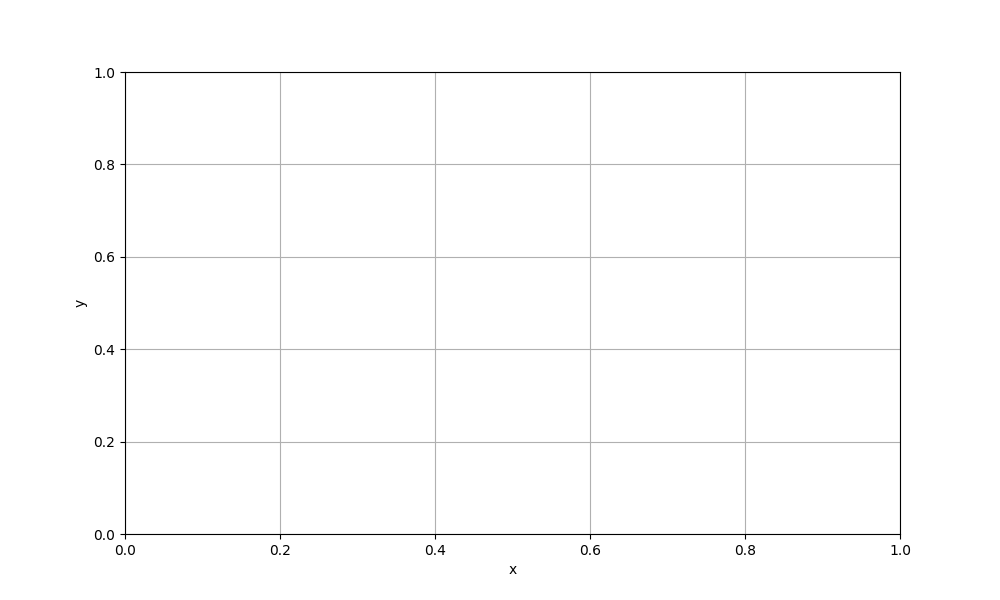
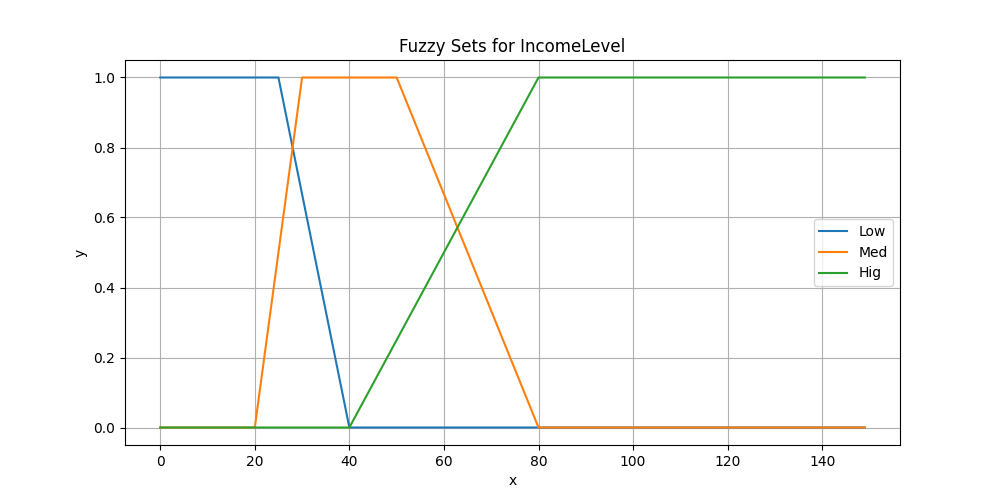
Graphing function done

diff --git a/scripts/main.py b/scripts/main.py
@@ -18,34 +18,35 @@ def DefuzzyfyRisk(risk: str, output_var_sets: FuzzySetsDict) -> float:
 
 
 def plotFuzzySets(fuzzySetsDict):
-    # var: str, sets: list[FuzzySet]
-    prev:str = ""
-    plt.plot(fuzzySetsDict["Age=Young"].x, fuzzySetsDict["Age=Young"].y, label=f"Ahhh")
-    plt.title('Title')
-    plt.xlabel('x')
-    plt.ylabel('y')
-    plt.xlim(-40, 40)  # Set the y-axis limit
-    plt.ylim(0, 1)  # Set the x-axis limit
-
-    plt.grid(True)
-    plt.savefig('Graphs/' + prev + '.png')
     
-    return
+    prev:str = ""
+    
+    # var: str, sets: FuzzySet
     for var, sets in fuzzySetsDict.items():
-        if(prev == ""):
-            prev = var.split('=')[0]
-        if(var.split('=')[0] == prev):
-            plt.plot(sets.x, sets.y, label=f"{sets.label}")
-        else:
+        current_group = var.split('=')[0]
+        if prev != "" and current_group != prev:
+            # Save and close the figure for the previous group
             plt.title(f'Fuzzy Sets for {prev}')
-            plt.figure(figsize=(10, 6))
+            plt.legend()
+            plt.savefig('Graphs/' + prev + '.png')
+            plt.close()
+
+            # Start a new figure for the new group
+            plt.figure(figsize=(10, 5))
             plt.xlabel('x')
             plt.ylabel('y')
             plt.grid(True)
-            plt.savefig('Graphs/' + prev + '.png')
-            prev = var.split('=')[0]
-            plt.plot(sets.x, sets.y, label=f"{sets.label}")
 
+        # Plot current set
+        plt.plot(sets.x, sets.y, label=f"{sets.label}")
+        prev = current_group
+
+    # Handle the last group after exiting the loop
+    if prev != "":
+        plt.title(f'Fuzzy Sets for {prev}')
+        plt.legend()
+        plt.savefig('Graphs/' + prev + '.png')
+        plt.close()
             
 
     return 
@@ -77,12 +78,13 @@ def plotFuzzySets(fuzzySetsDict):
 
 def main():
     # Initialize systems and read data
-    input_var_sets = readFuzzySetsFile('InputVarSets.txt')
-    output_var_sets = readFuzzySetsFile('Risks.txt')
+    input_var_sets = readFuzzySetsFile('InputTextFiles/InputVarSets.txt')
+    output_var_sets = readFuzzySetsFile('InputTextFiles/Risks.txt')
     rules = readRulesFile()
     applications: list[Application] = readApplicationsFile()
     
     plotFuzzySets(input_var_sets)
+    plotFuzzySets(output_var_sets)
         
     
     

diff --git a/scripts/MFIS_Read_Functions.py b/scripts/MFIS_Read_Functions.py
@@ -37,7 +37,7 @@ def readFuzzySetsFile(fleName):
     return fuzzySetsDict
 
 def readRulesFile():
-    inputFile = open('Rules.txt', 'r')
+    inputFile = open('InputTextFiles/Rules.txt', 'r')
     rules = RuleList()
     line = inputFile.readline()
     while line != '':
@@ -56,7 +56,7 @@ def readRulesFile():
     return rules
 
 def readApplicationsFile():
-    inputFile = open('Applications.txt', 'r')
+    inputFile = open('InputTextFiles/Applications.txt', 'r')
     applicationList = []
     line = inputFile.readline()
     while line != '':
